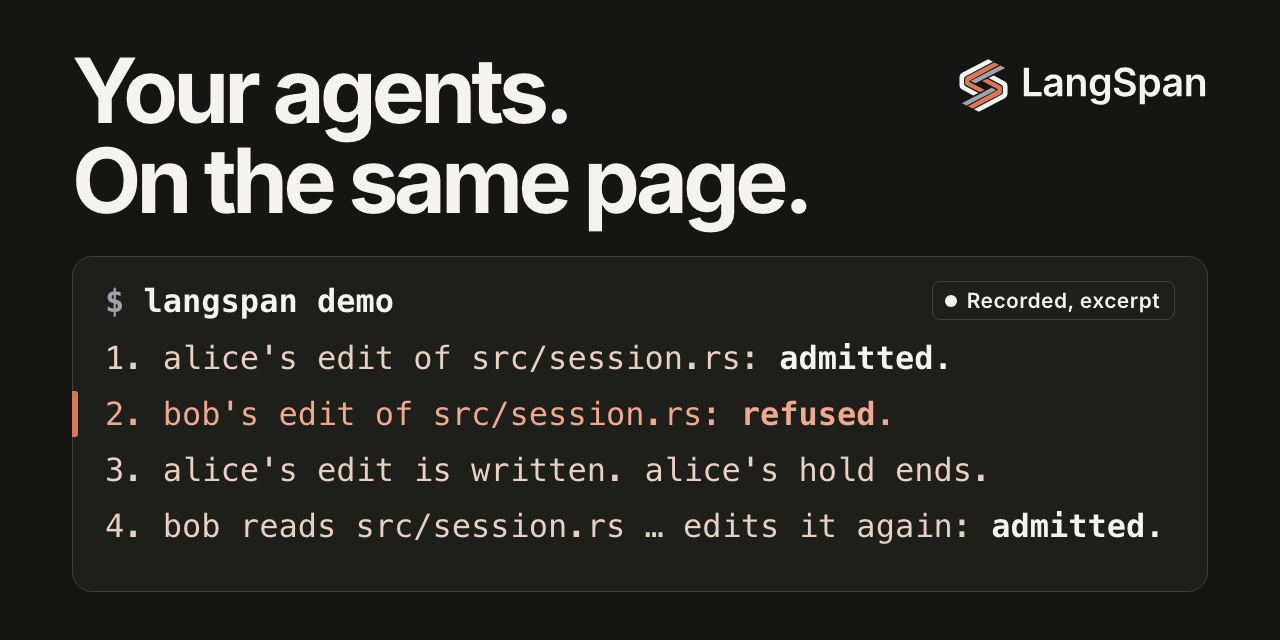
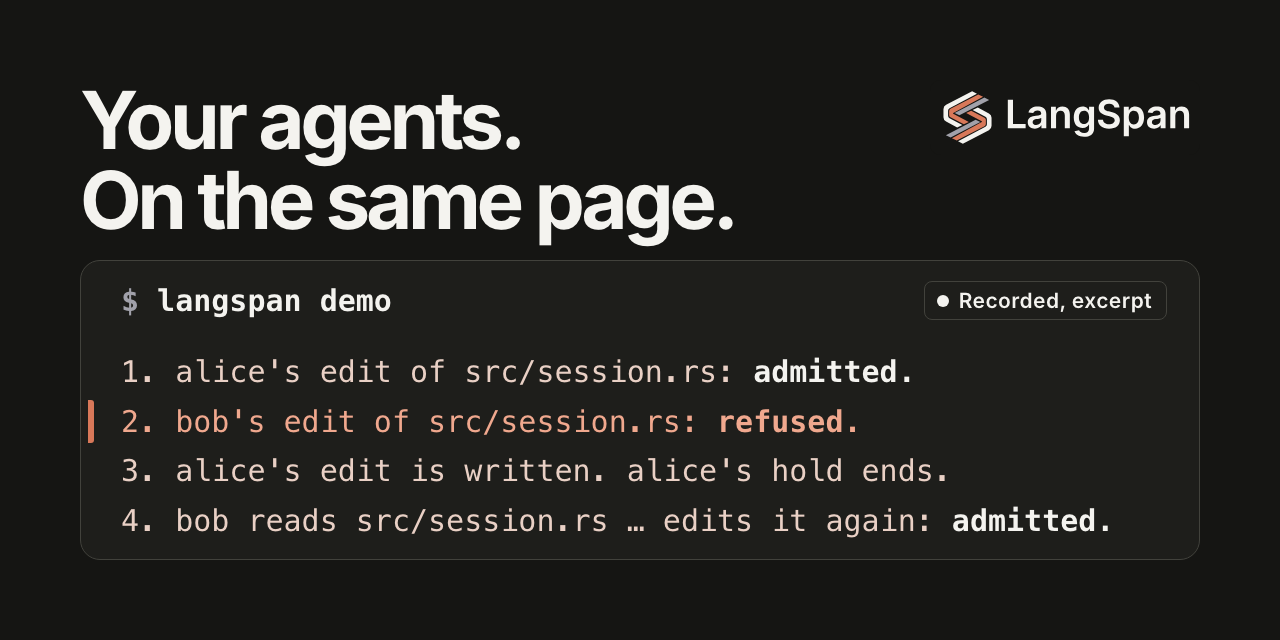
feat(site): keep the card inside GitHub's 78 px safe area
Claude-Session: https://claude.ai/code/session_01TbzpEBk2EJTppUipwLqYix

diff --git a/marketing/film/social-card.html b/marketing/film/social-card.html
@@ -13,17 +13,17 @@
 *{box-sizing:border-box}
 html,body{margin:0;width:1280px;height:640px;overflow:hidden}
 body{background:var(--bg);color:var(--text);font-family:Inter,Arial,sans-serif;-webkit-font-smoothing:antialiased}
-main{width:1280px;height:640px;padding:46px 72px 48px;display:flex;flex-direction:column;gap:30px}
+main{width:1280px;height:640px;padding:80px 80px 80px;display:flex;flex-direction:column;gap:20px}
 .top{display:flex;justify-content:space-between;align-items:flex-start;gap:24px}
-.lockup svg{width:270px;height:auto;display:block;margin:2px -8px 0 0}
-h1{margin:0;font-size:90px;line-height:1;letter-spacing:-.055em;font-weight:700}
-.term{flex:1;background:var(--card);border:1.5px solid var(--line);border-radius:20px;padding:24px 32px 26px;display:flex;flex-direction:column;gap:18px}
+.lockup svg{width:270px;height:auto;display:block;margin:0}
+h1{margin:0;font-size:80px;line-height:1;letter-spacing:-.055em;font-weight:700}
+.term{flex:1;background:var(--card);border:1.5px solid var(--line);border-radius:20px;padding:20px 32px 20px 40px;display:flex;flex-direction:column;gap:16px;justify-content:space-between}
 .th{display:flex;align-items:center;justify-content:space-between;gap:12px}
 .chip{display:inline-flex;align-items:center;gap:10px;font:600 21px/1 Inter,Arial,sans-serif;letter-spacing:.02em;padding:8px 14px 8px 12px;border-radius:8px;border:1.5px solid var(--line);color:var(--text)}
 .chip::before{content:"";width:12px;height:12px;border-radius:50%;background:currentColor}
-.cmd{font:600 32px/1 var(--mono);color:var(--text)}
+.cmd{font:600 30px/1 var(--mono);color:var(--text)}
 .cmd i{font-style:normal;color:var(--muted)}
-ol{list-style:none;margin:0;padding:0;display:flex;flex-direction:column;gap:16px;font:500 32px/1.25 var(--mono);color:var(--code);white-space:nowrap}
+ol{list-style:none;margin:0;padding:0;display:flex;flex-direction:column;gap:12px;font:500 30px/1.25 var(--mono);color:var(--code);white-space:nowrap}
 li.no{color:var(--refuse);position:relative}
 li.no::before{content:"";position:absolute;left:-33px;top:-3px;bottom:-3px;width:6px;background:var(--coral);border-radius:0 3px 3px 0}
 li b{font-weight:700;color:var(--text)}
